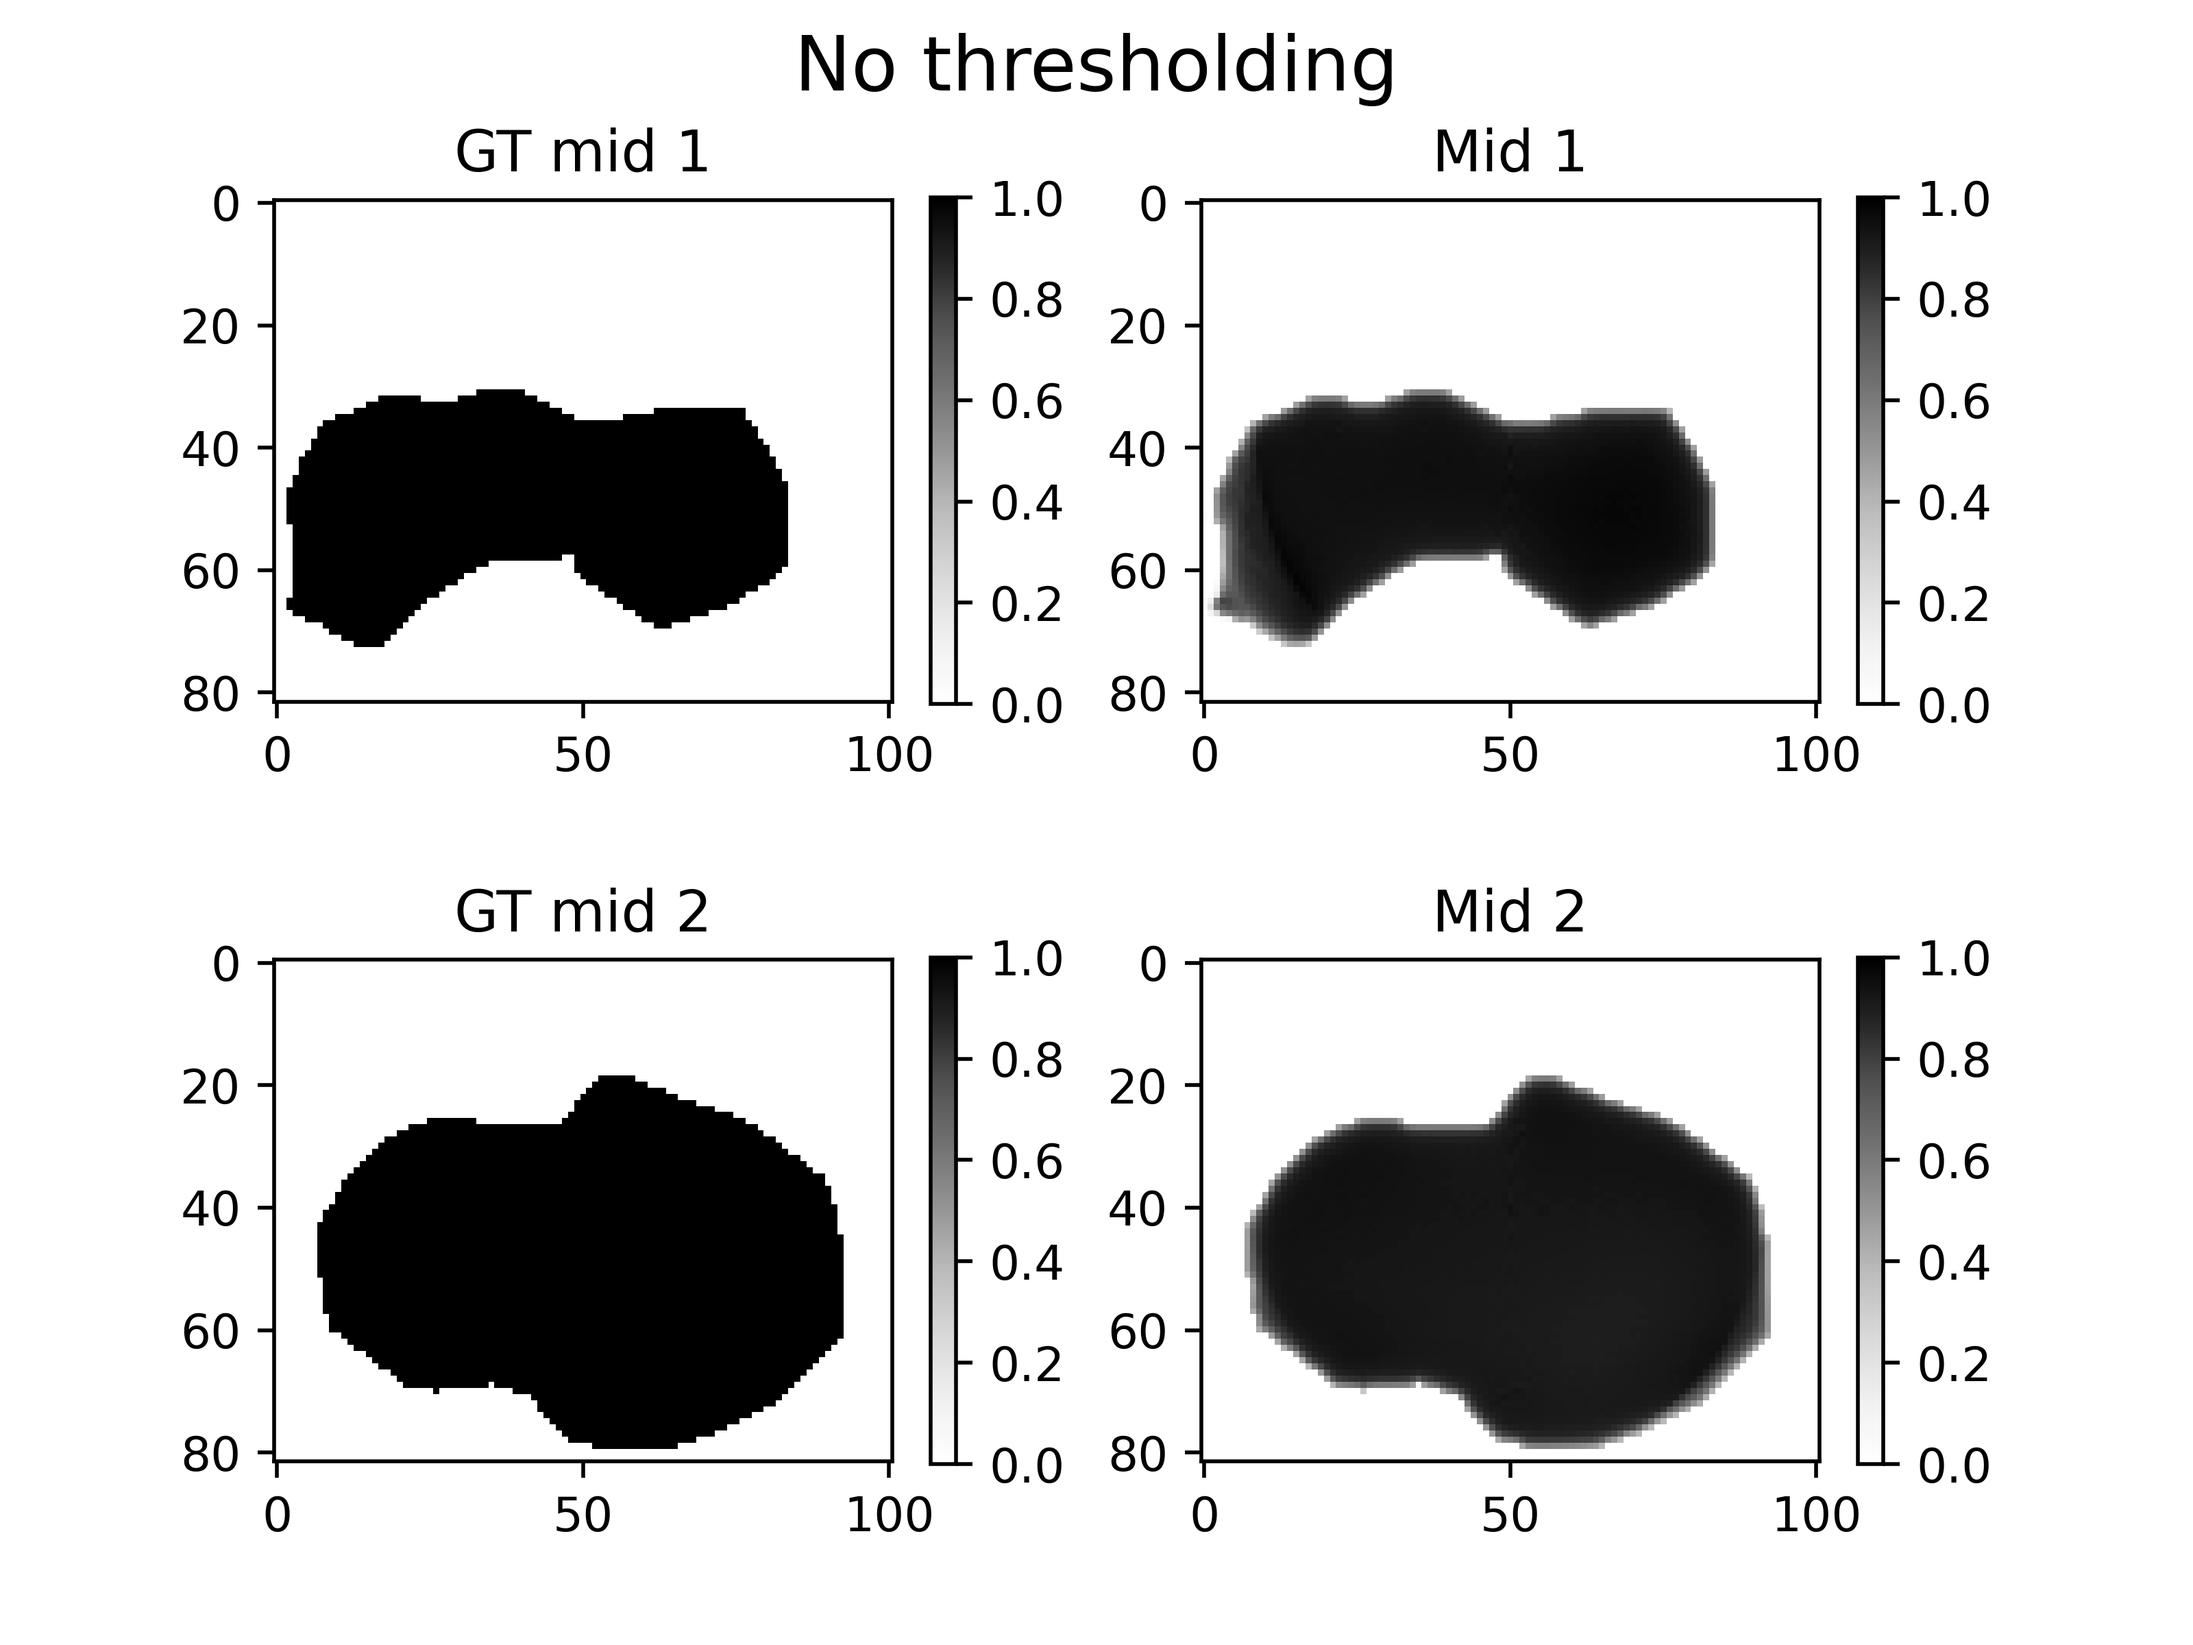
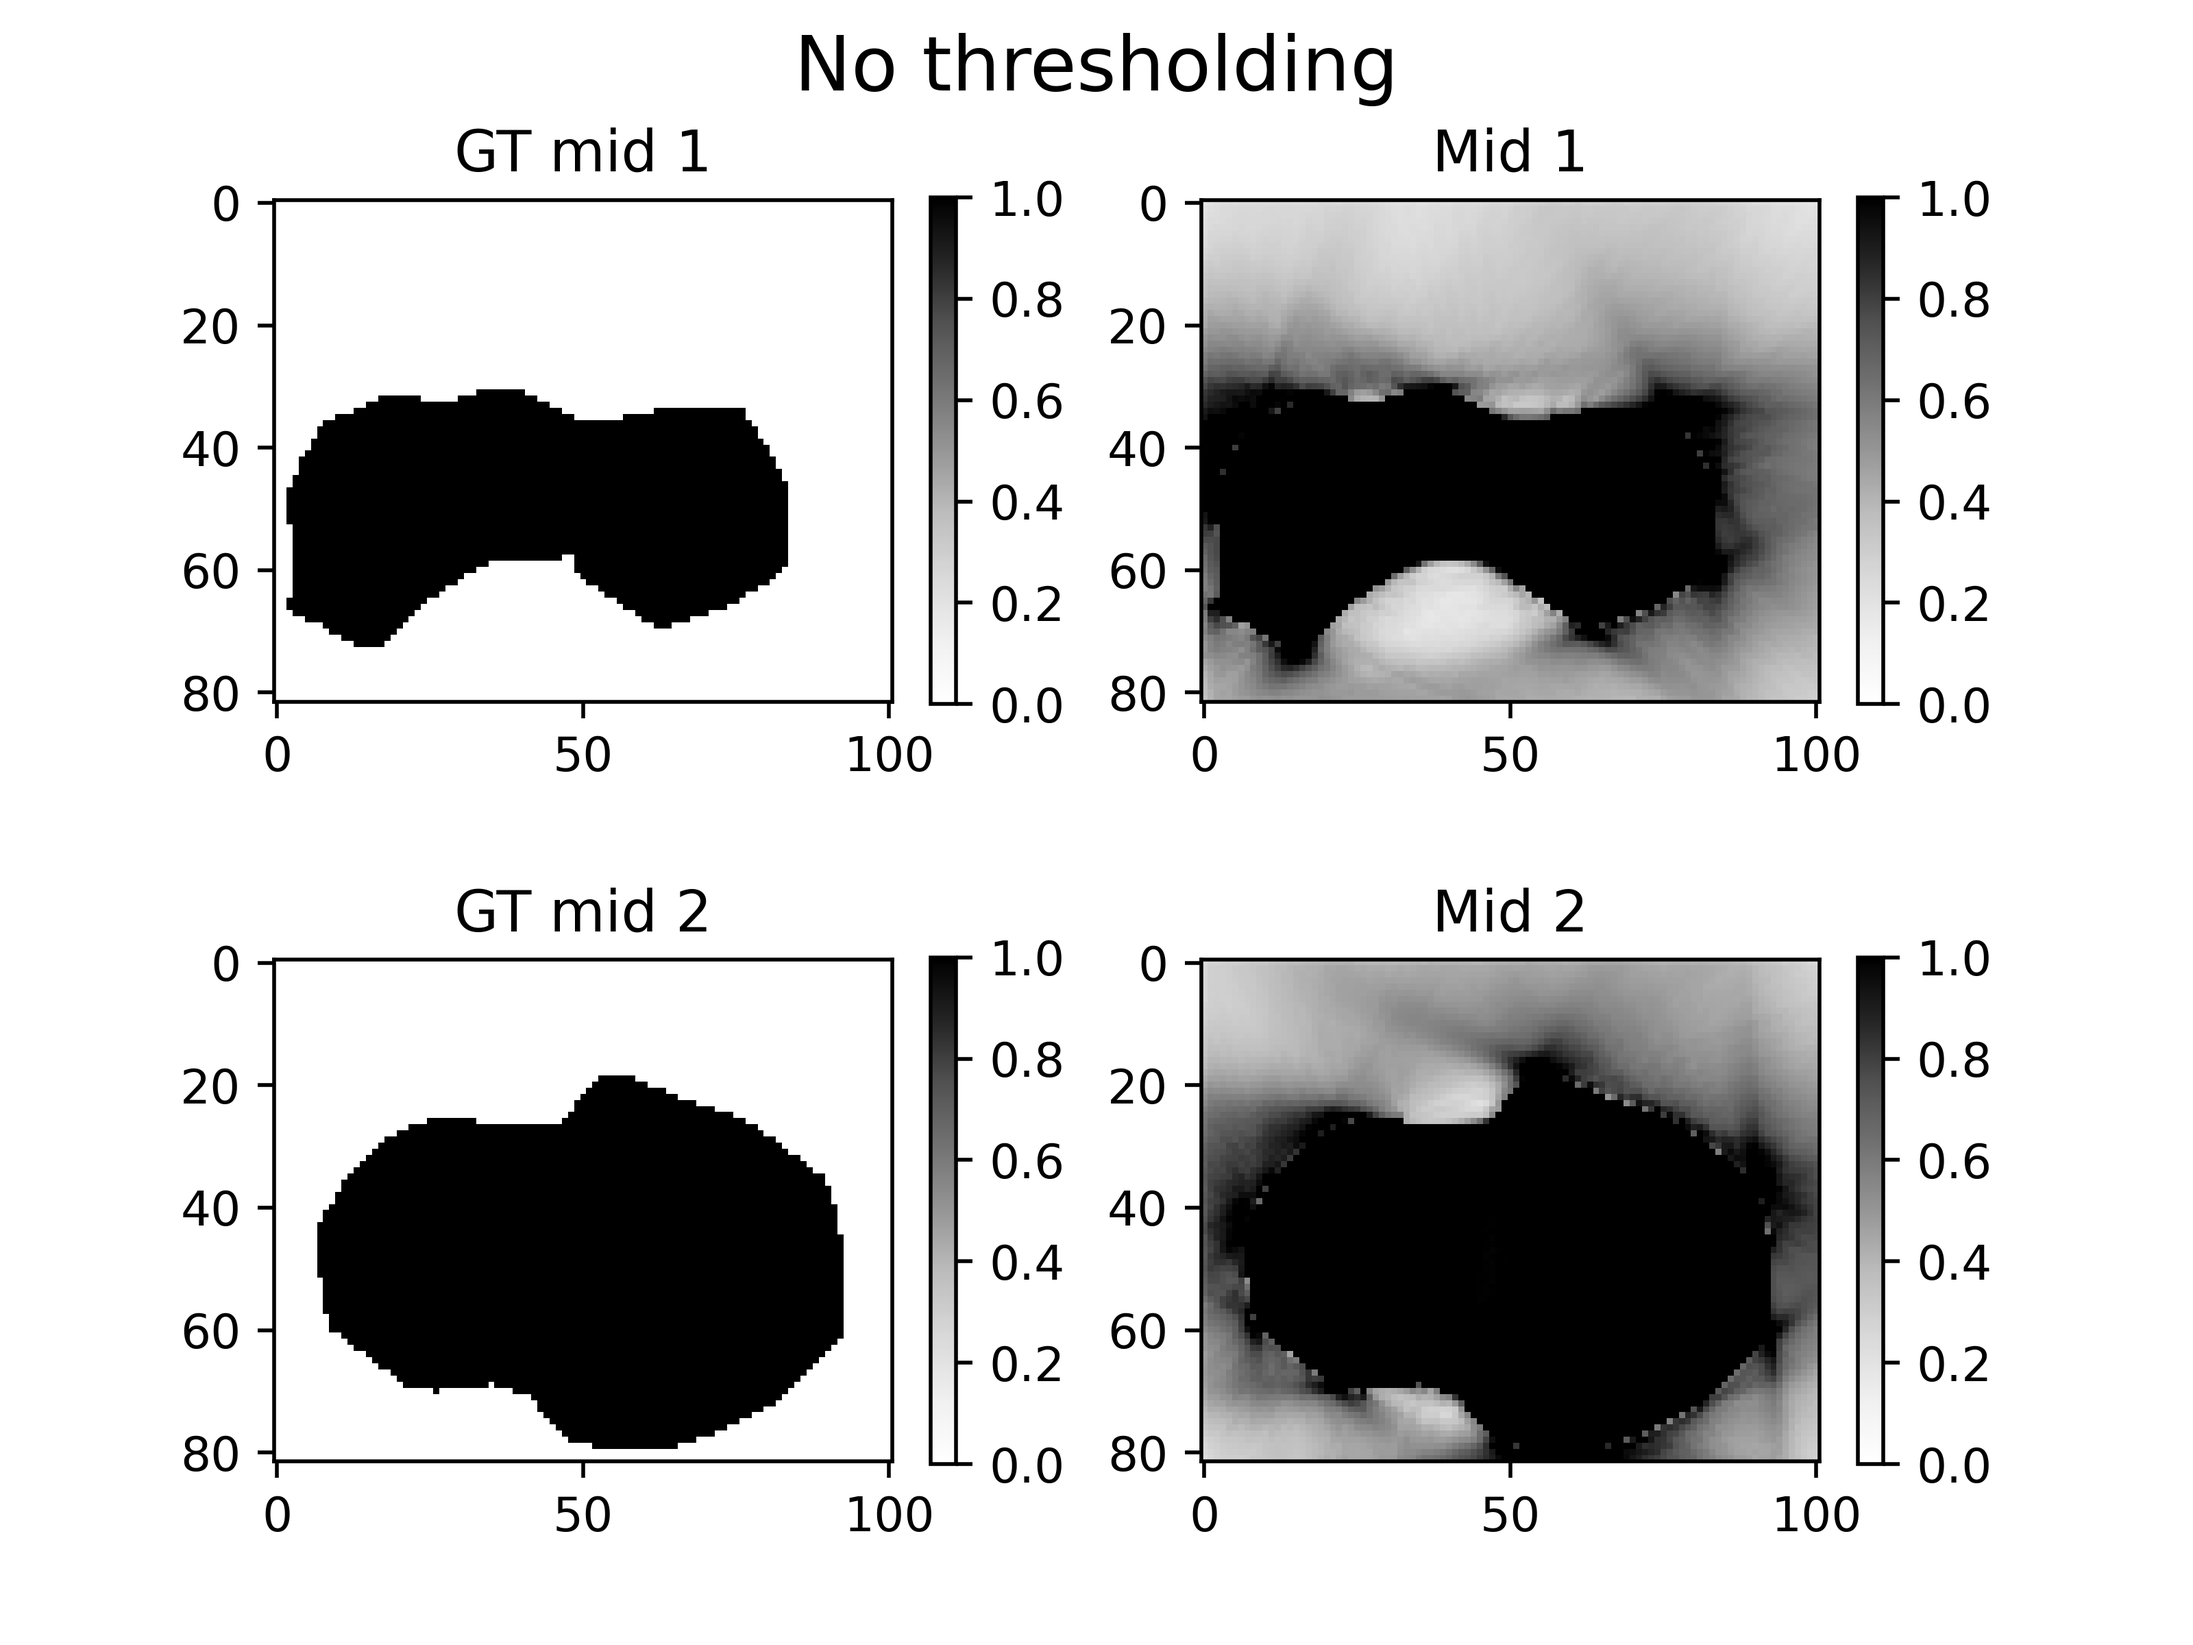
[xray] completed pngs

Changed region(s): [[0.5312, 0.5625, 0.8438, 0.9062], [0.5312, 0.125, 0.8438, 0.4375]]

diff --git a/src/pyxu/experimental/xray/2dtests/bunny_bhatt_method/bunny_bhatt.py b/src/pyxu/experimental/xray/2dtests/bunny_bhatt_method/bunny_bhatt.py
@@ -185,53 +185,53 @@ def threshold_processing_2(image):
 
 
 if __name__ == "__main__":
-    lcav_low_img = lcav_low.run()
-    # lcav_middle1_img = lcav_middle1.run()
-    # lcav_middle2_img = lcav_middle2.run()
-    lcav_high_img = lcav_high.run()
-
-    plot_four_images(
-        [bunny_low(), lcav_low_img, bunny_high(), lcav_high_img],
-        ["GT low", "Low", "GT high", "High"],
-        "No thresholding",
-        "no_thresholding_part1.png",
-    )
-
-    plot_four_images(
-        [bunny_low(), lcav_low_img, bunny_high(), lcav_high_img],
-        ["GT low", "Low", "GT high", "High"],
-        "With thresholding - 2 colors",
-        "with_thresholding_2_colors_part1.png",
-        processing=[lambda x: x, threshold_processing_1, lambda x: x, threshold_processing_1],
-    )
-
-    plot_four_images(
-        [bunny_low(), lcav_low_img, bunny_high(), lcav_high_img],
-        ["GT low", "Low", "GT high", "High"],
-        "With thresholding - 3 colors",
-        "with_thresholding_3_colors_part1.png",
-        processing=[lambda x: x, threshold_processing_2, lambda x: x, threshold_processing_2],
-    )
+    # lcav_low_img = lcav_low.run()
+    lcav_middle1_img = lcav_middle1.run()
+    lcav_middle2_img = lcav_middle2.run()
+    # lcav_high_img = lcav_high.run()
 
     # plot_four_images(
-    #     [bunny_middle1(), lcav_middle1_img, bunny_middle2(), lcav_middle2_img],
-    #     ["GT mid 1", "Mid 1", "GT mid 2", "Mid 2"],
+    #     [bunny_low(), lcav_low_img, bunny_high(), lcav_high_img],
+    #     ["GT low", "Low", "GT high", "High"],
     #     "No thresholding",
-    #     "no_thresholding_part2.png",
+    #     "no_thresholding_part1.png",
     # )
     #
     # plot_four_images(
-    #     [bunny_middle1(), lcav_middle1_img, bunny_middle2(), lcav_middle2_img],
-    #     ["GT mid 1", "Mid 1", "GT mid 2", "Mid 2"],
+    #     [bunny_low(), lcav_low_img, bunny_high(), lcav_high_img],
+    #     ["GT low", "Low", "GT high", "High"],
     #     "With thresholding - 2 colors",
-    #     "with_thresholding_2_colors_part2.png",
+    #     "with_thresholding_2_colors_part1.png",
     #     processing=[lambda x: x, threshold_processing_1, lambda x: x, threshold_processing_1],
     # )
     #
     # plot_four_images(
-    #     [bunny_middle1(), lcav_middle1_img, bunny_middle2(), lcav_middle2_img],
-    #     ["GT mid 1", "Mid 1", "GT mid 2", "Mid 2"],
+    #     [bunny_low(), lcav_low_img, bunny_high(), lcav_high_img],
+    #     ["GT low", "Low", "GT high", "High"],
     #     "With thresholding - 3 colors",
-    #     "with_thresholding_3_colors_part2.png",
+    #     "with_thresholding_3_colors_part1.png",
     #     processing=[lambda x: x, threshold_processing_2, lambda x: x, threshold_processing_2],
     # )
+
+    plot_four_images(
+        [bunny_middle1(), lcav_middle1_img, bunny_middle2(), lcav_middle2_img],
+        ["GT mid 1", "Mid 1", "GT mid 2", "Mid 2"],
+        "No thresholding",
+        "no_thresholding_part2.png",
+    )
+
+    plot_four_images(
+        [bunny_middle1(), lcav_middle1_img, bunny_middle2(), lcav_middle2_img],
+        ["GT mid 1", "Mid 1", "GT mid 2", "Mid 2"],
+        "With thresholding - 2 colors",
+        "with_thresholding_2_colors_part2.png",
+        processing=[lambda x: x, threshold_processing_1, lambda x: x, threshold_processing_1],
+    )
+
+    plot_four_images(
+        [bunny_middle1(), lcav_middle1_img, bunny_middle2(), lcav_middle2_img],
+        ["GT mid 1", "Mid 1", "GT mid 2", "Mid 2"],
+        "With thresholding - 3 colors",
+        "with_thresholding_3_colors_part2.png",
+        processing=[lambda x: x, threshold_processing_2, lambda x: x, threshold_processing_2],
+    )
